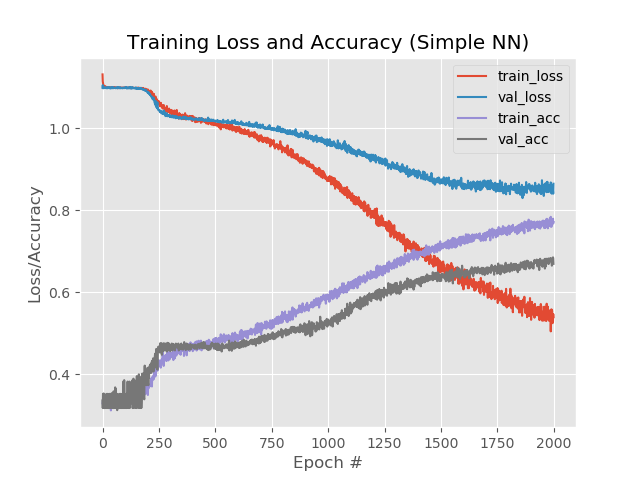
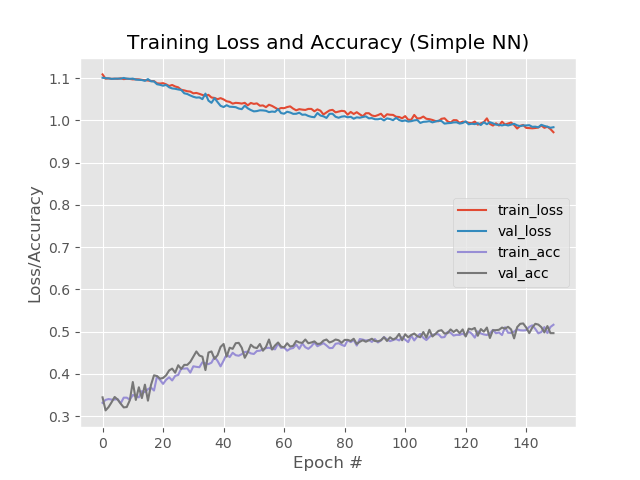
moved keras model to own class

diff --git a/prediction.py b/prediction.py
@@ -1,38 +1,128 @@
-from sklearn.neural_network import MLPClassifier
-from sklearn.metrics import accuracy_score, recall_score, precision_score
+
+import pickle
+
+import matplotlib.pyplot as plt
+import numpy as np
+from sklearn.metrics import classification_report
+from sklearn.model_selection import train_test_split
+from sklearn.preprocessing import LabelBinarizer
+from tensorflow.keras.layers import Dense, Dropout, Flatten
+from tensorflow.keras.models import Sequential, load_model
+from tensorflow.keras.optimizers import SGD
+
 import data
 
-dc = data.DataComposer()
-season = dc.getData(range(15, 19))
 
-matches = season["matches"]
-results = season["results"]
+class Model:
 
-stopAt = round(len(matches)*0.8)
+    def __init__(self, learningRate: float, epochs: int, batchSize=16, dataSplit=.8):
+        self.__learningRate = learningRate
+        self.__epochs = epochs
+        self.__model = None
+        self.__dataSplit = dataSplit
+        self.__batchSize = batchSize
+        self.__history = None
+        self.__labelBinarizer = LabelBinarizer()
 
-clf = MLPClassifier(solver='adam', alpha=10, hidden_layer_sizes=(16, 8), random_state=1, max_iter=250)
+    def __buildModel(self, data):
+        print("[INFO] building network")
+        self.__model = Sequential()
+        self.__model.add(Dense(12, input_shape=self.getDataShape(data), activation="sigmoid"))
+        self.__model.add(Dropout(.2))
+        self.__model.add(Flatten())
+        self.__model.add(Dense(6, activation="sigmoid"))
+        self.__model.add(Dropout(.2))
+        self.__model.add(Dense(len(self.__labelBinarizer.classes_), activation="softmax"))
+        #self.__model = Sequential()
+        #self.__model.add(Dense(40, input_shape=self.getDataShape(data), activation="sigmoid"))
+        #self.__model.add(Dropout(.4))
+        #self.__model.add(Flatten())
+        #self.__model.add(Dense(22, activation="sigmoid"))
+        #self.__model.add(Dropout(.3))
+        #self.__model.add(Dense(8, activation="sigmoid"))
+        #self.__model.add(Dropout(.2))
+        #self.__model.add(Dense(len(self.__labelBinarizer.classes_), activation="softmax"))
 
-clf.fit(matches[0:stopAt], results[0:stopAt])
+        opt = SGD(lr=self.__learningRate)
+        self.__model.compile(loss="categorical_crossentropy", optimizer=opt, metrics=["accuracy"])
 
-#------------------------------------------------------------------------------
-# get neural network scores
-predicted = clf.predict(matches[stopAt:len(matches)])
-correct = results[stopAt:len(matches)]
+    def getTrainingData(self):
+        dc = data.DataComposer("data/matches/", includeOldStats=False, includeBench=False, balance=True)
+        return dc.getData()
 
-accuracy = accuracy_score(correct, predicted)
-recall = recall_score(correct, predicted, average='macro')
-precision = precision_score(correct, predicted, average='macro')
+    def getPredictData(self):
+        dc = data.DataComposer("data/matches/test/", includeOldStats=False, includeBench=False, balance=True)
+        return dc.getData()
+
+    def getDataShape(self, data):
+        return (len(data[0]), len(data[0][0]))
+
+    def splitData(self, data):
+        splitAt = round(len(data["matches"])*0.8)
+        return {
+            "trainX": np.asarray(data["matches"][:splitAt]).astype(np.int32),
+            "trainY": data["results"][:splitAt],
+            "testX": np.asarray(data["matches"][splitAt:]).astype(np.int32),
+            "testY": data["results"][splitAt:]
+        }
+
+    def trainNewModel(self):
+        dataSet = self.splitData(self.getTrainingData())
+
+        trainY = self.__labelBinarizer.fit_transform(dataSet["trainY"])
+        testY = self.__labelBinarizer.transform(dataSet["testY"])
+
+        self.__buildModel(dataSet["trainX"])
+        self.__history = self.__model.fit(x=dataSet["trainX"], y=trainY, validation_data=(dataSet["testX"], testY),
+                                          epochs=self.__epochs, batch_size=self.__batchSize, verbose=1)
+
+    def plotModel(self, fileDir):
+        N = np.arange(0, self.__epochs)
+        plt.style.use("ggplot")
+        plt.figure()
+        plt.plot(N, self.__history.history["loss"], label="train_loss")
+        plt.plot(N, self.__history.history["val_loss"], label="val_loss")
+        plt.plot(N, self.__history.history["accuracy"], label="train_acc")
+        plt.plot(N, self.__history.history["val_accuracy"], label="val_acc")
+        plt.title("Training Loss and Accuracy (Simple NN)")
+        plt.xlabel("Epoch #")
+        plt.ylabel("Loss/Accuracy")
+        plt.legend()
+        plt.savefig(fileDir + "training.png")
+
+    def save(self, fileDir):
+        print("[INFO] serializing network and label binarizer...")
+        self.__model.save(fileDir + "keras.model", save_format="h5")
+        f = open(fileDir + "label.pickle", "wb")
+        f.write(pickle.dumps(self.__labelBinarizer))
+        f.close()
+
+    def load(self, fileDir):
+        # load the model and label binarizer
+        print("[INFO] loading network and label binarizer...")
+        self.__model = load_model(fileDir + "keras.model")
+        self.__labelBinarizer = pickle.loads(open(fileDir + "label.pickle", "rb").read())
+
+    def predict(self):
+        dataSet = self.getPredictData()
+        dataSet["matches"] = np.asarray(dataSet["matches"]).astype(np.int32)
+        truePreds = 0
+        falsePreds = 0
+        # make a prediction on the data
+        preds = self.__model.predict(dataSet["matches"])
+        # find the class label index with the largest corresponding probability
         
-wRecall = recall_score(correct, predicted, average='weighted')
-wPrecision = precision_score(correct, predicted, average='weighted')
-#------------------------------------------------------------------------------
+        argmax = preds.argmax(axis=1)
+        for index in range(len(preds)):
+            label = self.__labelBinarizer.classes_[argmax[index]]
 
-print(
-    "######################################################################"
-)
+            # draw the class label + probability on the output image
+            text = "{}: {:.2f}% -- {} ;".format(label, preds[index][argmax[index]] * 100, str(label == dataSet["results"][index]))
+            if label == dataSet["results"][index]:
+                truePreds += 1
+            else:
+                falsePreds += 1
 
-print("Accuracy: " + str(accuracy))
-print("Recall: " + str(recall))
-print("Precision: " + str(precision))
-print("Weighted recall: " + str(wRecall))
-print("Weighted precision: " + str(wPrecision))
+            print("[INFO] " + text)
+
+        print("{:.2f}% correct".format(truePreds / (truePreds+falsePreds)))

diff --git a/dateSearch.py b/dateSearch.py
@@ -6,9 +6,15 @@ import locale
 class DateSearch:
 
     def __init__(self, startDate, searchDepth=185):
-        self._startDate = datetime.datetime.strptime(startDate, '%d.%m.%Y')
+        self._startDate = self.__parseDate(startDate)
         self._offset = 0
         self._searchDepth = searchDepth
+
+    def __parseDate(self, date):
+        if "-" in date:
+            return datetime.datetime.strptime(date, '%Y-%m-%d')
+        else:
+            return datetime.datetime.strptime(date, '%d.%m.%Y')
 
     def nextOffset(self):
         self._offset *= -1
@@ -26,7 +32,7 @@ class DateSearch:
             return date.strftime("%y")
 
     def getSeason(self, date):
-        return self.__getSeasonFromDate(datetime.datetime.strptime(date, '%d.%m.%Y'))
+        return self.__getSeasonFromDate(self.__parseDate(date))
 
     def getNextDate(self):
         locale.setlocale(locale.LC_ALL, 'de_DE')

diff --git a/data.py b/data.py
@@ -244,8 +244,3 @@ class DataPlotter:
         self.__plotYDistribution(data)
         self.__plotMissingPlayerSkill(data)
 
-#dc = DataComposer("data/matches/", includeBench=False, includeOldStats=False, balance=True)
-#dc.getData()
-
-#dp = DataPlotter("data/matches/", "data/output/")
-#dp.plot()

diff --git a/main.py b/main.py
@@ -1,0 +1,12 @@
+from prediction import Model
+
+
+model = Model(0.1, 150)
+model.trainNewModel()
+
+#model.load("data/currentBest/")
+
+
+model.predict()
+model.plotModel("data/output/")
+model.save("data/output/")
